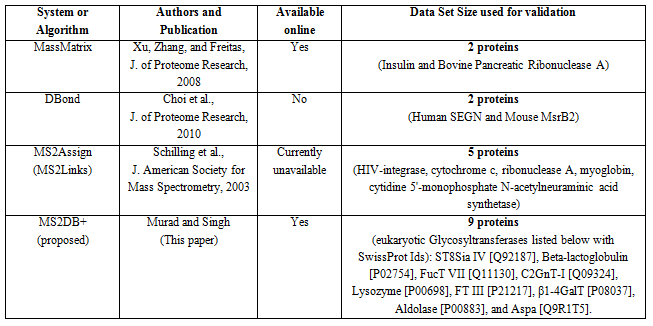
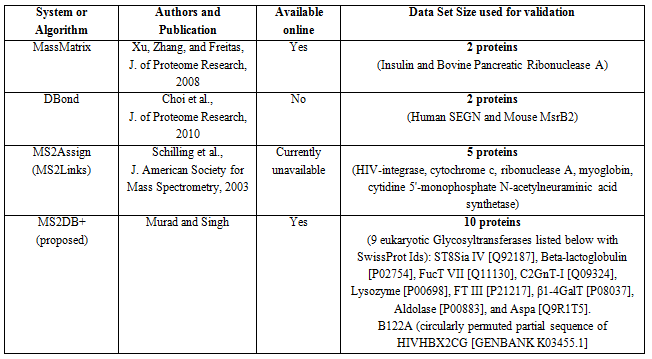
MS2DB+ - Updating FAQ

Changed region(s): [[0.0, 0.0, 1.0, 1.0]]

diff --git a/faq.php b/faq.php
@@ -173,7 +173,7 @@
                         <tr><td colspan="2"><h4><a name="Dataset"></a>8. Is the dataset large enough to validate the algorithm?</h4></td></tr>
                         <tr><td class="justified">
                                 A better evaluation of the method would be possible with a larger dataset. We however note that for disulfide
-                                bond analysis, the use of mass spectra for nine proteins (as has been done by us) represents one of the largest
+                                bond analysis, the use of mass spectra for ten proteins (as has been done by us) represents one of the largest
                                 data sets that have been analyzed in MS-based methods. For comparison purposes, we have summarized the size of
                                 the data sets used in some of the well known papers that have addressed this problem in the recent past in the
                                 figure below. As can be seen, the size of the data set in our validation studies is by far the largest
@@ -189,7 +189,7 @@
                         </tr>
                         <tr><td colspan="2"><h4><a name="Comparison"></a>9. How well MS2DB+ performs when compared to other gold standard methods in the area?</h4></td></tr>
                         <tr><td class="justified">
-                                MS2DB+ was compared, using the nine datasets available, with MassMatrix as well as with the gold standard predictive
+                                MS2DB+ was compared, using the ten datasets available, with MassMatrix as well as with the gold standard predictive
                                 applications (DiANNA,ISULFIND and PreCys), which all use sequence information. To the best of our knowledge, such a
                                 comparative study was conducted for the first time in this area. The figure below summarizes the results –
                                 which show MS2DB+ to have outperformed all these systems.
